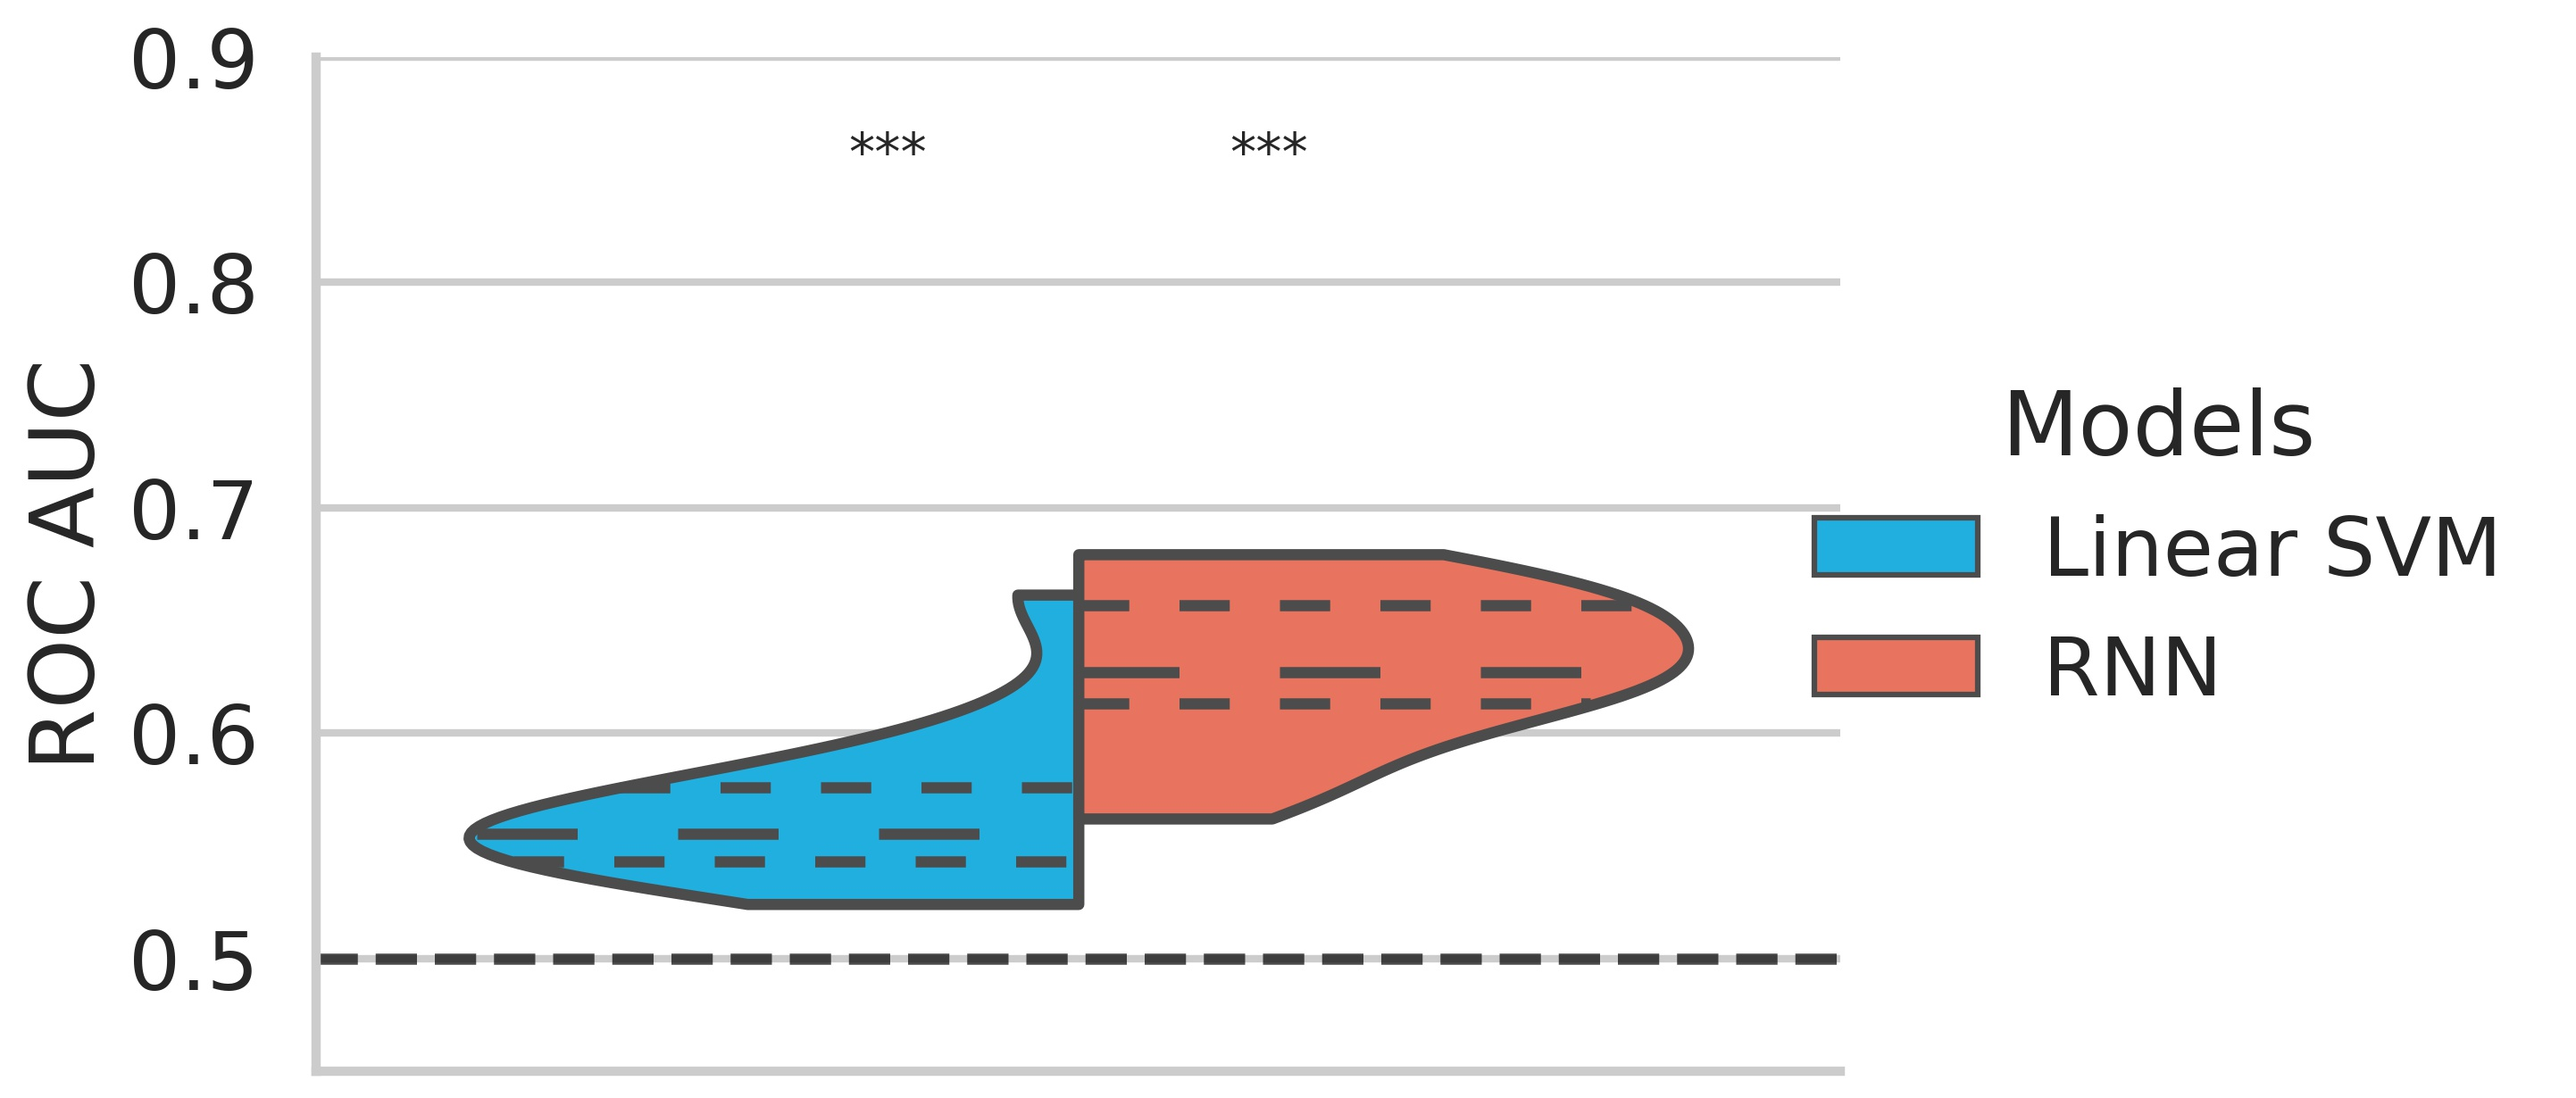
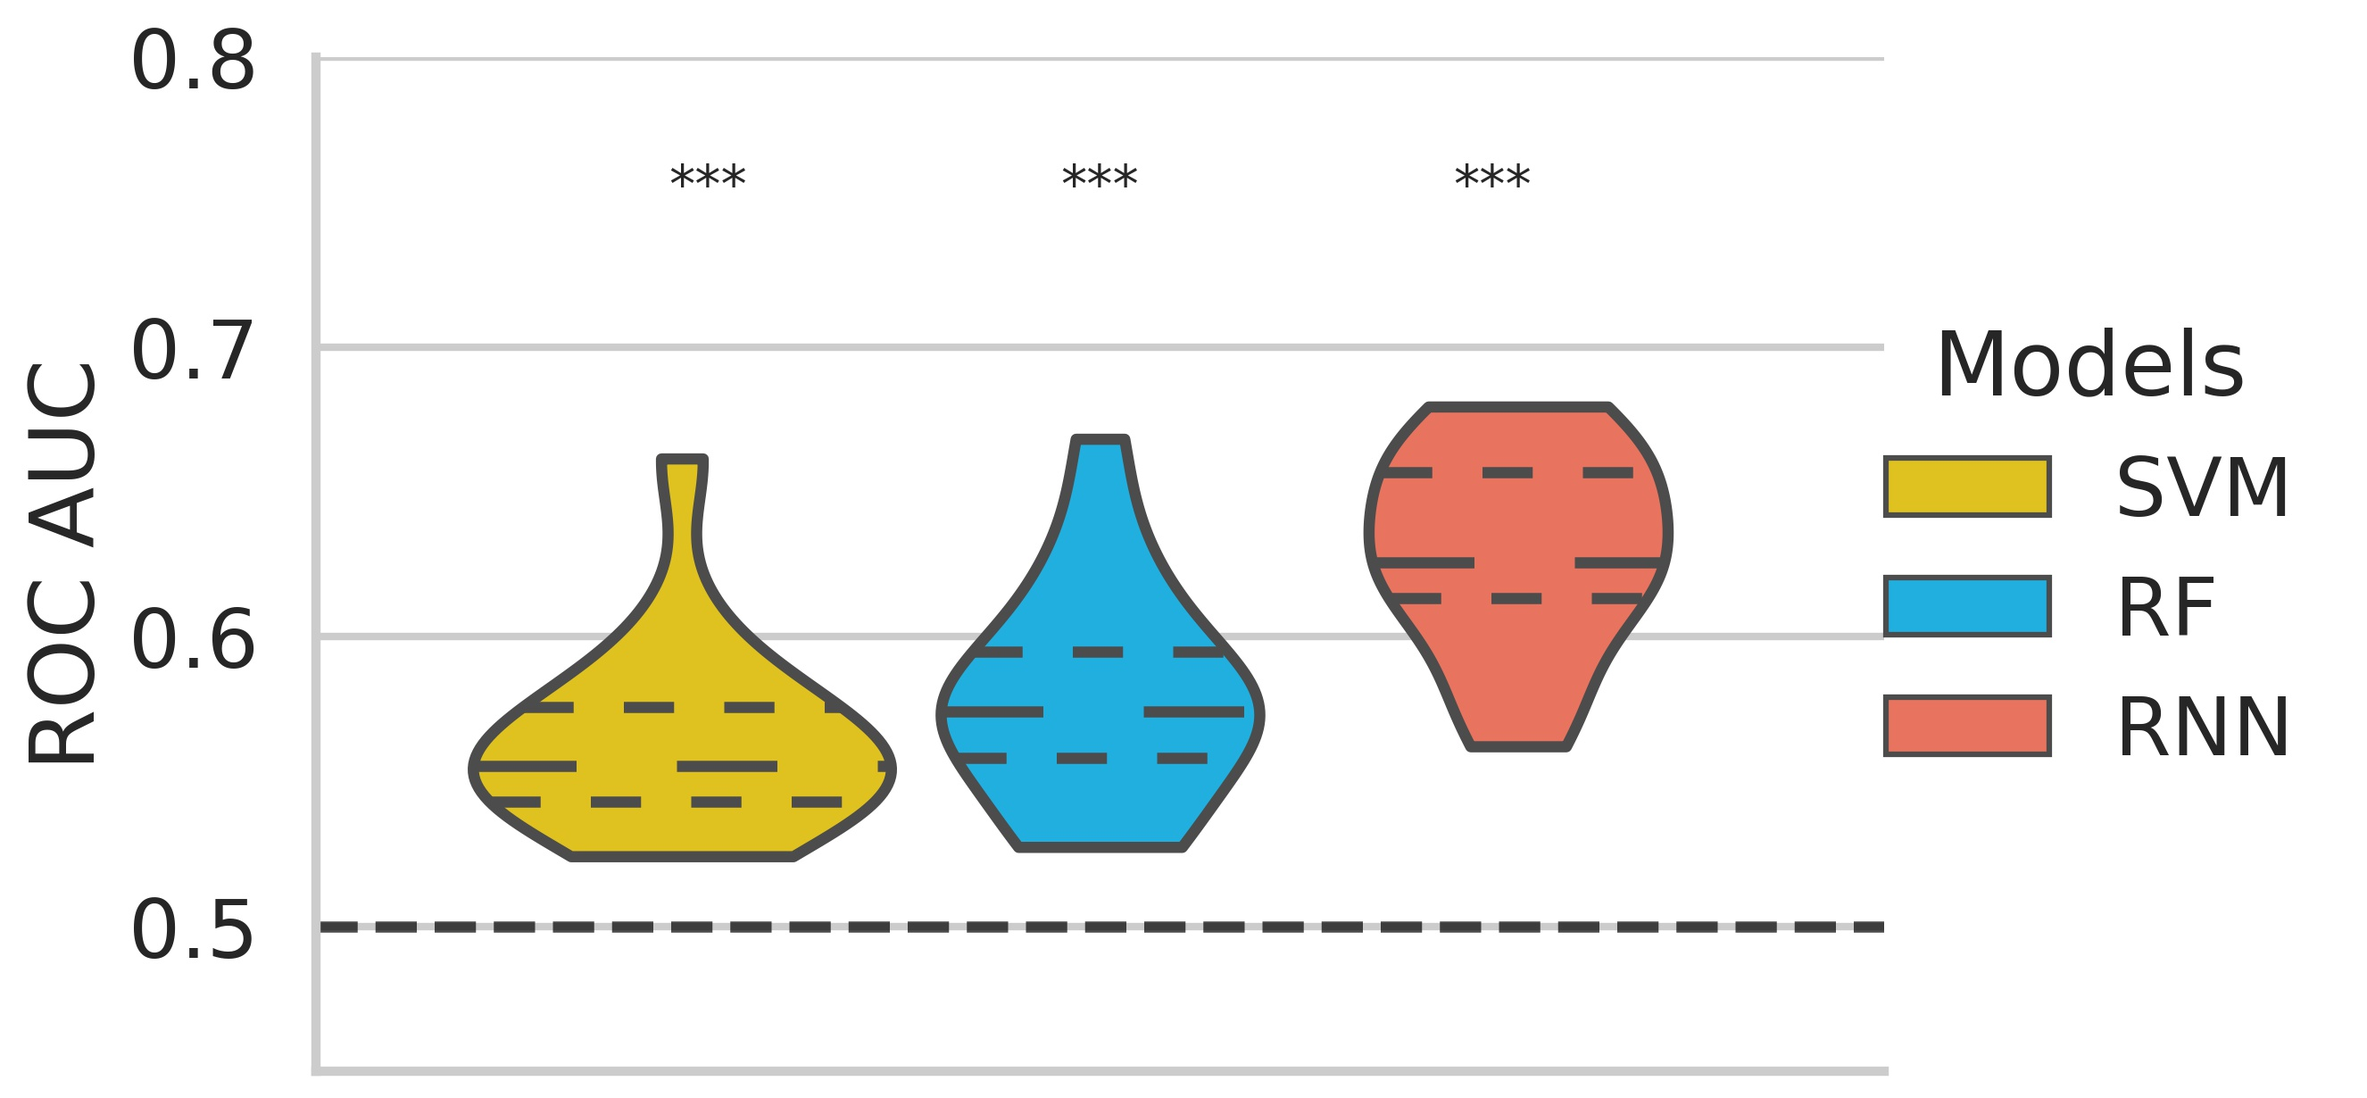
update

diff --git a/scripts/5.2.1.stats_CD_confidence.py b/scripts/5.2.1.stats_CD_confidence.py
@@ -29,7 +29,7 @@ sns.set_context('poster')
 
 experiment  = 'confidence' # confidence or adequacy
 cv_type     = 'cross_domain' # LOO or cross_domain
-decoder     = 'regression' #
+decoder     = 'SVM' #
 working_dir = f'../results/{experiment}/{cv_type}/'
 stats_dir   = f'../stats/{experiment}/{cv_type}'
 figures_dir = f'../figures/{experiment}/{cv_type}'
@@ -49,16 +49,19 @@ df = pd.concat(df)
 df_ave = df.groupby(['decoder','source','filename','fold','accuracy_train','accuracy_test']).mean().reset_index()
 
 # common settings
-ylim    = (0.35,.85)
+ylim            = (0.35,.85)
+star_h          = 0.82
 confidence_range= 4
 time_steps      = np.arange(7)
 dict_rename     = {0:'incorrect trials',1:'correct trials'}
 xargs           = dict(hue          = 'accuracy_test',
                        hue_order    = ['correct trials','incorrect trials',],
-                       split        = True,
+                       col_order    = ['SVM','RF','RNN'],
+                       row_order    = ['cognitive','mem_4','mixed_4'],
+                        split        = True,
                        inner        = 'quartile',
                        cut          = 0,
-                       scale        = 'width',
+                        scale        = 'width',
                        palette      = ['deepskyblue','tomato'],
                        )
 
@@ -98,33 +101,28 @@ for (_decoder,acc_train,acc_test,target_data),df_sub in df_ave.groupby(
     results['target_data'   ].append(target_data)
 results = pd.DataFrame(results)
 
-temp = []
-for (_decoder),df_sub in results.groupby(['decoder']):
-    df_sub                  = df_sub.sort_values(['ps'])
-    pvals                   = df_sub['ps'].values
-    converter               = utils.MCPConverter(pvals = pvals)
-    d                       = converter.adjust_many()
-    df_sub['ps_corrected']  = d['bonferroni'].values
-    temp.append(df_sub)
-results             = pd.concat(temp)
-results['stars']    = results['ps_corrected'].apply(utils.stars)
+results                 = results.sort_values(['ps'])
+pvals                   = results['ps'].values
+converter               = utils.MCPConverter(pvals = pvals)
+d                       = converter.adjust_many()
+results['ps_corrected'] = d['bonferroni'].values
+results['stars']        = results['ps_corrected'].apply(utils.stars)
 results.to_csv(os.path.join(stats_dir,'scores.csv'),index = False)
+
 # plot scores
 g = sns.catplot(x           = 'accuracy_train',
                 y           = 'score',
-                order       = ['correct trials','incorrect trials'],
+                order       = xargs['hue_order'],
                 col         = 'decoder',
-                col_order   = ['regression','RNN'],
                 row         = 'source',
-                row_order   = ['cognitive','mem_4','mixed_4'],
                 data        = df_ave,
                 kind        = 'violin',
                 aspect      = 1.5,
                 **xargs)
 xtick_order = list(g.axes[-1][-1].xaxis.get_majorticklabels())
 ## add stars
-for ax_row,target_data in zip(g.axes,['cognitive','mem_4','mixed_4']):
-    for _ax,_decoder in zip(ax_row,['regression','RNN']):
+for ax_row,target_data in zip(g.axes,xargs['row_order']):
+    for _ax,_decoder in zip(ax_row,xargs['hue_order']):
         df_sub = results[np.logical_and(results['decoder'] == _decoder,
                                         results['target_data'] == target_data)]
         df_sub = df_sub.sort_values(['accuracy_train','accuracy_test'])
@@ -134,11 +132,11 @@ for ax_row,target_data in zip(g.axes,['cognitive','mem_4','mixed_4']):
             position        = text_obj.get_position()
             xtick_label     = text_obj.get_text()
             df_sub_stats    = df_sub[df_sub['accuracy_train'] == xtick_label].sort_values(['accuracy_test'])
-            for (jj,temp_row),adjustment in zip(df_sub_stats.iterrows(),[-0.125,0.125]):
+            for (jj,temp_row),adjustment in zip(df_sub_stats.iterrows(),[-0.25,0,0.25]):
                 # print(temp_row['stars'])
                 if '*' in temp_row['stars']:
                     _ax.annotate(temp_row['stars'],
-                                xy          = (ii + adjustment,0.83),
+                                xy          = (ii + adjustment,star_h),
                                 ha          = 'center',
                                 fontsize    = 14)
 (g.set_axis_labels("Training data","ROC AUC")
@@ -147,7 +145,7 @@ for ax_row,target_data in zip(g.axes,['cognitive','mem_4','mixed_4']):
 # [ax.set_title(title) for ax,title in zip(g.axes.flatten(),['Lnear support vector machine','Recurrent neural network'])]
 [ax.axhline(0.5,linestyle = '--',alpha = .7,color = 'black') for ax in g.axes.flatten()]
 g._legend.set_title("Testing data")
-
+fds
 g.savefig(os.path.join(figures_dir,'scores.jpg'),
           dpi = 300,
           bbox_inches = 'tight')

diff --git a/scripts/5.1.2.stats_LOO_adequacy.py b/scripts/5.1.2.stats_LOO_adequacy.py
@@ -52,16 +52,17 @@ df = pd.concat(df)
 
 # common settings
 ylim    = {'confidence':(0.45,0.9),
-           'adequacy':(0.45,0.9)}[experiment]
+           'adequacy':(0.45,0.8)}[experiment]
+star_h          = 0.75
 confidence_range= 4
 time_steps      = np.array([f'T-{7-ii}' for ii in range(7)])
 dict_rename     = {0:'incorrect trials',1:'correct trials'}
 xargs           = dict(hue          = 'decoder',
                        hue_order    = ['SVM','RF','RNN'],
-                       split        = True,
+                       # split        = True,
                        inner        = 'quartile',
                        cut          = 0,
-                       scale        = 'width',
+                       # scale        = 'width',
                        palette      = ['gold','deepskyblue','tomato'],
                        )
 
@@ -69,7 +70,6 @@ xargs           = dict(hue          = 'decoder',
 # averge within each study
 df_ave = df.groupby(['decoder',
                      'study_name',]).mean().reset_index()
-df_ave.to_csv(os.path.join(stats_dir,'scores.csv'),index = False)
 
 # significance of scores
 np.random.seed(12345)
@@ -101,16 +101,13 @@ for (_decoder),df_sub in df_ave.groupby(['decoder',]):
     results['decoder'       ].append(_decoder)
 results = pd.DataFrame(results)
 
-temp = []
-for (_decoder),df_sub in results.groupby(['decoder']):
-    df_sub                  = df_sub.sort_values(['ps'])
-    pvals                   = df_sub['ps'].values
-    converter               = utils.MCPConverter(pvals = pvals)
-    d                       = converter.adjust_many()
-    df_sub['ps_corrected']  = d['bonferroni'].values
-    temp.append(df_sub)
-results             = pd.concat(temp)
-results['stars']    = results['ps_corrected'].apply(utils.stars)
+results                 = results.sort_values(['ps'])
+pvals                   = results['ps'].values
+converter               = utils.MCPConverter(pvals = pvals)
+d                       = converter.adjust_many()
+results['ps_corrected'] = d['bonferroni'].values
+results['stars']        = results['ps_corrected'].apply(utils.stars)
+results.to_csv(os.path.join(stats_dir,'scores.csv'),index = False)
 
 # plot scores
 df_ave['x'] = 0
@@ -124,21 +121,21 @@ g = sns.catplot(x           = 'x',
   .set(ylim = ylim,
        xticklabels = [],))
 [ax.axhline(0.5,linestyle = '--',alpha = .7,color = 'black') for ax in g.axes.flatten()]
+# g._legend.remove()
 g._legend.set_title("Models")
-g._legend.get_texts()[0].set_text('Linear SVM')
+
 ## add stars
 ax = g.axes.flatten()[0]
-for (jj,temp_row),adjustment in zip(results.iterrows(),[-0.125,0.125]):
+for (jj,temp_row),adjustment in zip(results.iterrows(),[-0.25,0,0.25]):
     if '*' in temp_row['stars']:
         ax.annotate(temp_row['stars'],
-                    xy = (adjustment, .85),
+                    xy = (adjustment, star_h),
                     ha = 'center',
                     fontsize = 14,
                     )
 g.savefig(os.path.join(figures_dir,'scores.jpg'),
           dpi = 300,
           bbox_inches = 'tight')
-asd
 
 # get the weights of the regression model
 df_reg = df_ave[df_ave['decoder'] == decoder]

diff --git a/scripts/5.1.1.stats_LOO_confidence.py b/scripts/5.1.1.stats_LOO_confidence.py
@@ -74,7 +74,6 @@ df_ave = df.groupby(['decoder',
                      'study_name',
                      'accuracy_train',
                      'accuracy_test']).mean().reset_index()
-df_ave.to_csv(os.path.join(stats_dir,'scores.csv'),index = False)
 
 # significance of scores
 np.random.seed(12345)
@@ -106,16 +105,14 @@ for (_decoder,acc_train,acc_test),df_sub in df_ave.groupby(['decoder','accuracy_
     results['decoder'       ].append(_decoder)
 results = pd.DataFrame(results)
 
-temp = []
-for (_decoder),df_sub in results.groupby(['decoder']):
-    df_sub                  = df_sub.sort_values(['ps'])
-    pvals                   = df_sub['ps'].values
-    converter               = utils.MCPConverter(pvals = pvals)
-    d                       = converter.adjust_many()
-    df_sub['ps_corrected']  = d['bonferroni'].values
-    temp.append(df_sub)
-results             = pd.concat(temp)
-results['stars']    = results['ps_corrected'].apply(utils.stars)
+
+results                 = results.sort_values(['ps'])
+pvals                   = results['ps'].values
+converter               = utils.MCPConverter(pvals = pvals)
+d                       = converter.adjust_many()
+results['ps_corrected'] = d['bonferroni'].values
+results['stars']        = results['ps_corrected'].apply(utils.stars)
+results.to_csv(os.path.join(stats_dir,'scores.csv'),index = False)
 
 # plot scores
 g = sns.catplot(x           = 'accuracy_train',

diff --git a/scripts/4.3.1.simple_RF_cross_domain_confidence.py b/scripts/4.3.1.simple_RF_cross_domain_confidence.py
@@ -76,9 +76,6 @@ for fold,(_,train) in enumerate(cv.split(features,targets,groups = groups)):
         model = build_RF(n_estimators = 500,n_jobs = -1)
         model.fit(X_,Y_)
         
-        print(f'get {property_name}')
-        properties = np.concatenate([est.base_estimator.coef_[np.newaxis] for est in model.steps[-1][-1].calibrated_classifiers_]).mean(0)
-        
         # test phase
         for (filename,sub_name,target_domain),df_sub in df_target.groupby(['filename','sub','domain']):
             df_sub
